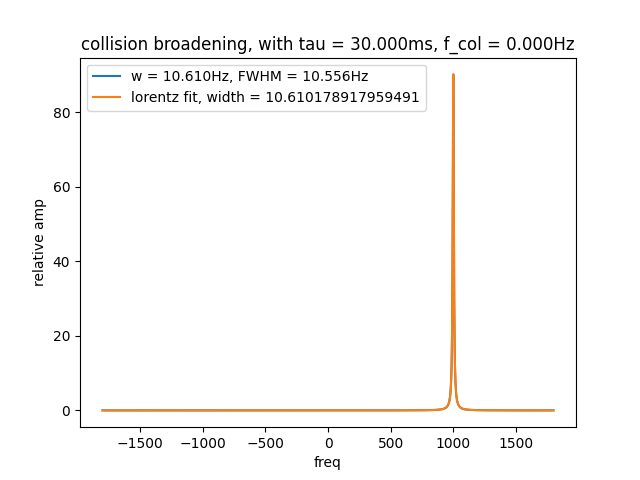
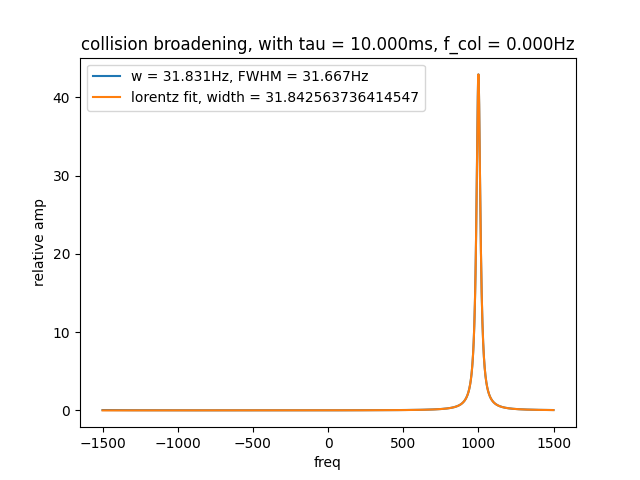
collision broadening

diff --git a/statistic optics/collision_broadening.py b/statistic optics/collision_broadening.py
@@ -8,17 +8,17 @@ import matplotlib.pyplot as plt
 
 nu0 = 1000*Hz
 
-tau = 30*ms # lifetime
+tau = 10*ms # lifetime
 # E = E0*np.exp(-t/tau)*np.exp(1j*2*pi*nu*t) with natural linewidth delta_nu = 1/(2*pi*tau)
 
 f = 3000*Hz # sampling frequency
-f_col = 100*Hz # collision frequency
+f_col = 500*Hz # collision frequency
 T = 60*tau # total samping time
 
 N = int(2*f*T) # sampling points
 tlist, delta_t = np.linspace(-T,T,N,retstep=True,endpoint=False)
 
-num = 10000 # times
+num = 5000 # times
 E0 = 100*V/m
 col_count = np.zeros([num])
 
@@ -51,13 +51,11 @@ f_left = np.min(f_area)
 f_right = np.max(f_area)
 
 plt.figure(1)
-plt.plot(tlist[20000:40000]*1000,np.abs(E_list[20000:40000]),label = f"real E @ t")
+plt.plot(tlist*1000,np.abs(E_list),label = f"real E @ t")
 plt.legend()
 plt.xlabel("time/ms")
 plt.ylabel("E amp")
 plt.title(f"collision broadening, with tau = {tau*1000:.3f}ms, f_col = {f_col:.3f}Hz")
-plt.axvline(x=f_left, color='red', linestyle='--', label=f'FWHM Left: {f_left:.2f}')
-plt.axvline(x=f_right, color='red', linestyle='--', label=f'FWHM Right: {f_right:.2f}')
 
 from scipy.optimize import curve_fit
 def f_func(x,gamma,A,nu0):
